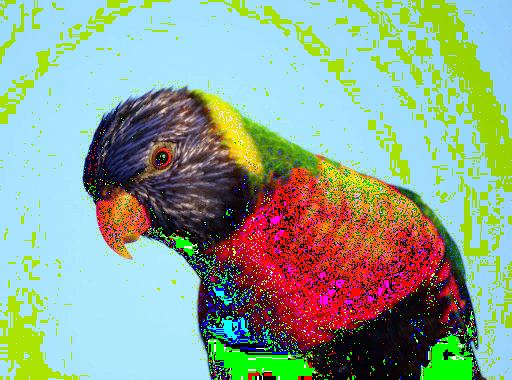
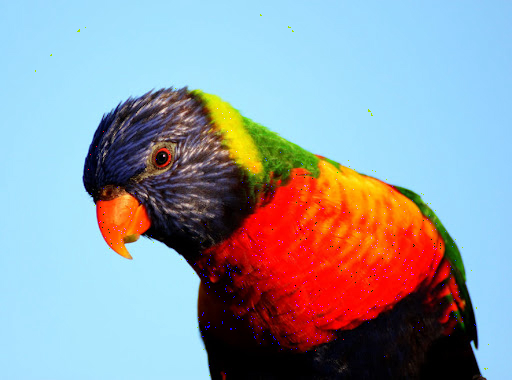
added multiple photos showing the errors in photos, and fixed the error

diff --git a/imgrw.c b/imgrw.c
@@ -6,13 +6,21 @@
 #define STB_IMAGE_WRITE_IMPLEMENTATION
 #include "stb_image/stb_image_write.h"
 
-#define FLOAT_TO_INT(x) ((x)>=0?(int)((x)+0.5):(int)((x)-0.5))
+#define FLOAT_TO_INT(x) ((x)>=0?(uint8_t)((x)+0.5):(uint8_t)((x)-0.5))
+
+static float Min(float a, float b) {
+	return a <= b ? a : b;
+}
+
+static float Max(float a, float b) {
+	return a >= b ? a : b;
+}
 
 int main(void){
 
     
     int width, height, channels;        //channels represent rgb and a for opacity
-    unsigned char *img = stbi_load("test.jpg", &width,&height,&channels, 0);
+    unsigned char *img = stbi_load("bird.jpg", &width,&height,&channels, 0);
     if (img == NULL){
         printf("Error, no image found.\n");
         exit(1);
@@ -32,15 +40,15 @@ int main(void){
     //modify pixel values;  
     for (unsigned char *i = img, *ni = new_img; i !=img+img_size; i +=channels, ni +=channels){
         
-        *ni = (uint8_t) FLOAT_TO_INT((16.0 + 0.257 * (*i))) + FLOAT_TO_INT((0.504 * (*(i+1)) )) + FLOAT_TO_INT((0.098 * (*(i+2))));        //Y
-        *(ni+1) = (uint8_t) FLOAT_TO_INT((128.0 - 0.148 * (*i))) - FLOAT_TO_INT((0.291 * (*(i+1)))) + FLOAT_TO_INT((0.439 * (*(i+2))));    //Cb
-        *(ni+2) = (uint8_t) FLOAT_TO_INT((128.0 + 0.439 * (*i))) - FLOAT_TO_INT((0.368 * (*(i+1)))) - FLOAT_TO_INT((0.071 * (*(i+2))));    //Cr
+        *ni = (uint8_t) FLOAT_TO_INT((0.299 * (*i)) + (0.587 * (*(i+1))) + (0.114 * (*(i+2))));        //Y
+        *(ni+1) = (uint8_t) FLOAT_TO_INT((128.0 - 0.169 * (*i)) - (0.331 * (*(i+1))) + (0.500 * (*(i+2))));    //Cb
+        *(ni+2) = (uint8_t) FLOAT_TO_INT((128.0 + 0.500 * (*i)) - (0.419 * (*(i+1))) - (0.081 * (*(i+2))));    //Cr
     }
 
 
     stbi_write_jpg("test_ycbcr.jpg",width,height,channels,new_img, 100);
 
-    unsigned char *ycbcr_img = stbi_load("test_ycbcr.jpg", &width,&height,&channels, 0);
+    unsigned char *ycbcr_img = new_img;
     if (ycbcr_img == NULL){
         printf("Error, no image found.\n");
         exit(1);
@@ -50,12 +58,12 @@ int main(void){
     //modify pixel values back to rgb;  
     for (unsigned char *i = ycbcr_img, *ni = rgb_img; i !=ycbcr_img+img_size; i +=channels, ni +=channels){
         
-        *ni = (uint8_t) FLOAT_TO_INT((1.164 * (*i - 16))) + FLOAT_TO_INT((1.596 * (*(i+2)-128)));                                               //R
-        *(ni+1) = (uint8_t) FLOAT_TO_INT((1.164 * (*i - 16))) - FLOAT_TO_INT((0.813 * (*(i+2)-128))) - FLOAT_TO_INT((0.391 * (*(i+1)-128)));    //G
-        *(ni+2) = (uint8_t) FLOAT_TO_INT((1.164 * (*i - 16))) + FLOAT_TO_INT((2.018 * (*(i+1)-128)));                                           //B
+        *ni = (uint8_t) Max(0.00, Min(255.0, *i + (1.4 * (*(i+2)-128))));                                               //R
+        *(ni+1) =(uint8_t) Max(0.00, Min(255.0, *i - (0.711 * (*(i+2)-128)) - (0.343 * (*(i+1)-128))));    //G
+        *(ni+2) =(uint8_t) Max(0.00, Min(255.0, *i + (1.765 * (*(i+1)-128))));                                           //B
     }
     
-    stbi_write_jpg("back_to_rgb.jpg",width,height,channels,rgb_img, 100);
+    stbi_write_jpg("back_to_rgb6.jpg",width,height,channels,rgb_img, 100);
 
     stbi_image_free(img);
     free(new_img);
